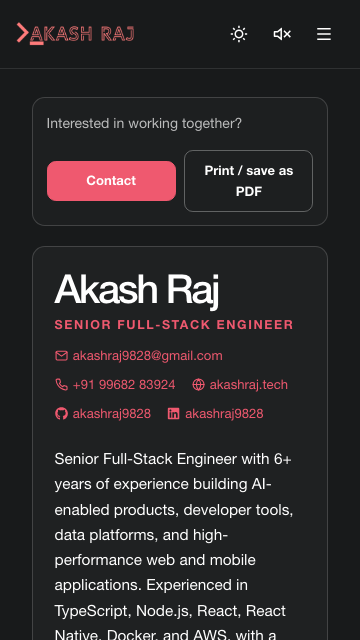
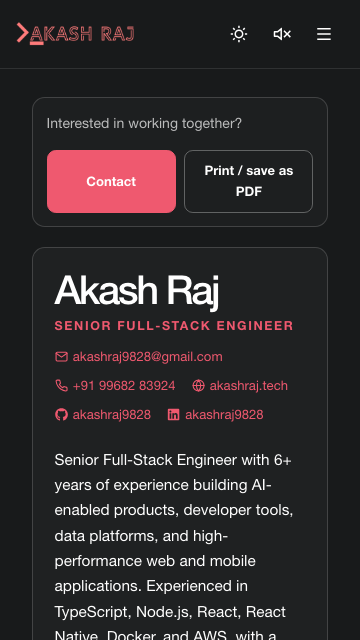
fix: improve mobile resume and stats layouts

diff --git a/src/assets/styles/pages/Stats.scss b/src/assets/styles/pages/Stats.scss
@@ -170,11 +170,11 @@
 
 	@media (max-width: 767px) {
 		width: min(100% - 2rem, 72rem);
-		.stats-intro { align-items: center; flex-wrap: wrap; gap: .85rem; padding: 1rem; }
+		.stats-intro { align-items: flex-start; flex-direction: column; gap: .85rem; padding: 1rem; }
 		.stats-intro::after { display: none; }
-		.intro-mark { width: 3rem; height: 3rem; font-size: 1.35rem; }
-		.intro-copy { flex-basis: calc(100% - 4rem); }
-		.github-button { margin-left: 3.85rem; padding: .5em .75em; font-size: .78rem; }
+		.intro-mark { display: none; }
+		.intro-copy { flex-basis: auto; width: 100%; }
+		.github-button { margin-left: 0; padding: .55em .8em; font-size: .78rem; }
 		.stats-grid { grid-template-columns: repeat(2, minmax(0, 1fr)); gap: .65rem; }
 		.stat-card { column-gap: .6rem; padding: .8rem; }
 		.stat-card > svg { width: 2.25rem; height: 2.25rem; padding: .65rem; }
@@ -195,6 +195,9 @@
 		.stats-details { grid-template-columns: 1fr; }
 		.stats-panel { padding: 1.25rem; }
 		.panel-heading { flex-direction: column; }
+		.project-tabs { display: grid; grid-template-columns: repeat(2, minmax(0, 1fr)); width: 100%; }
+		.project-tabs button { min-height: 2.75rem; }
+		.repo-row > span:first-child { min-width: 0; overflow-wrap: anywhere; }
 	}
 
 	@keyframes stats-shimmer { to { background-position: -200% 0; } }

diff --git a/src/assets/styles/pages/Resume.scss b/src/assets/styles/pages/Resume.scss
@@ -189,8 +189,8 @@
 		.resume-sheet { padding: 1.35rem; border-radius: .8rem; }
 		.resume-header { margin-bottom: 2rem; padding-bottom: 1.5rem; }
 		.resume-actions { align-items: stretch; flex-direction: column; padding: .85rem; }
-		.resume-action-buttons { display: grid !important; grid-template-columns: 1fr 1fr; }
-		.resume-action-buttons > * { width: 100%; }
+		.resume-action-buttons { display: grid !important; grid-template-columns: repeat(2, minmax(0, 1fr)); align-items: stretch !important; }
+		.resume-action-buttons > * { width: 100%; min-height: 3.9rem !important; }
 		.resume-contact { justify-content: flex-start; }
 		.resume-summary { font-size: .96rem; }
 		.resume-columns {
@@ -207,5 +207,8 @@
 			align-items: flex-start;
 			white-space: normal;
 		}
+		.resume-entry-heading > div:first-child,
+		.resume-entry p,
+		.resume-sidebar p { overflow-wrap: anywhere; }
 	}
 }
